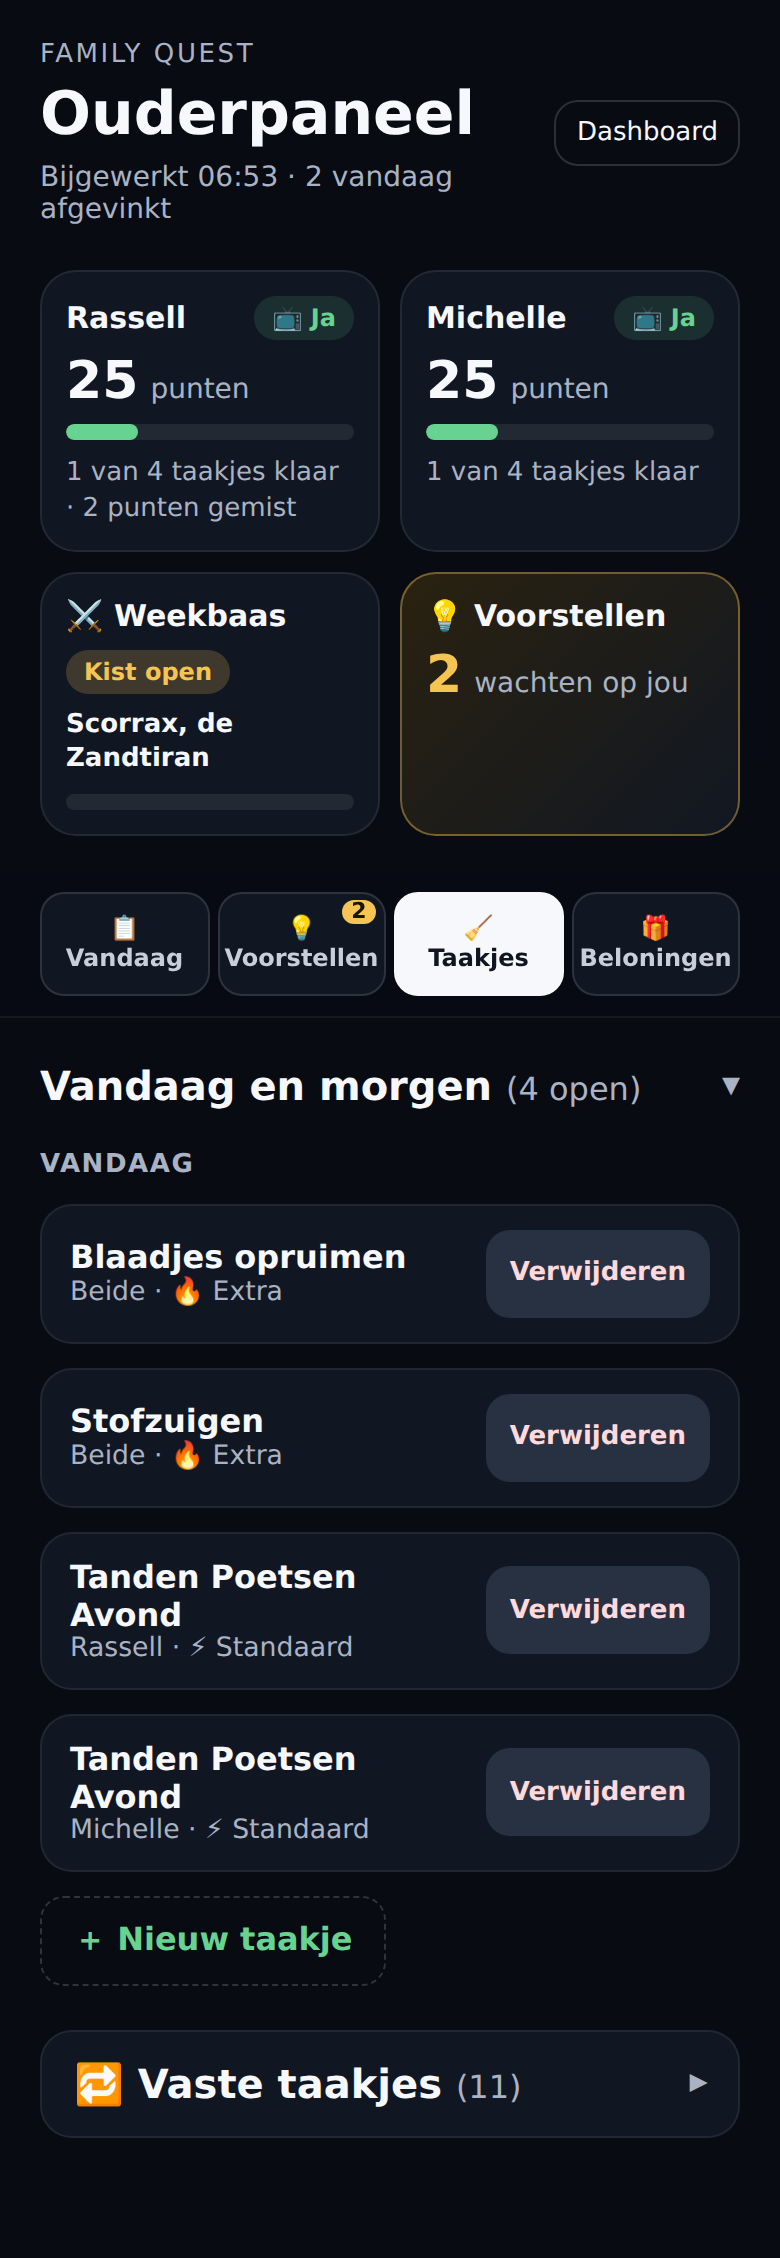
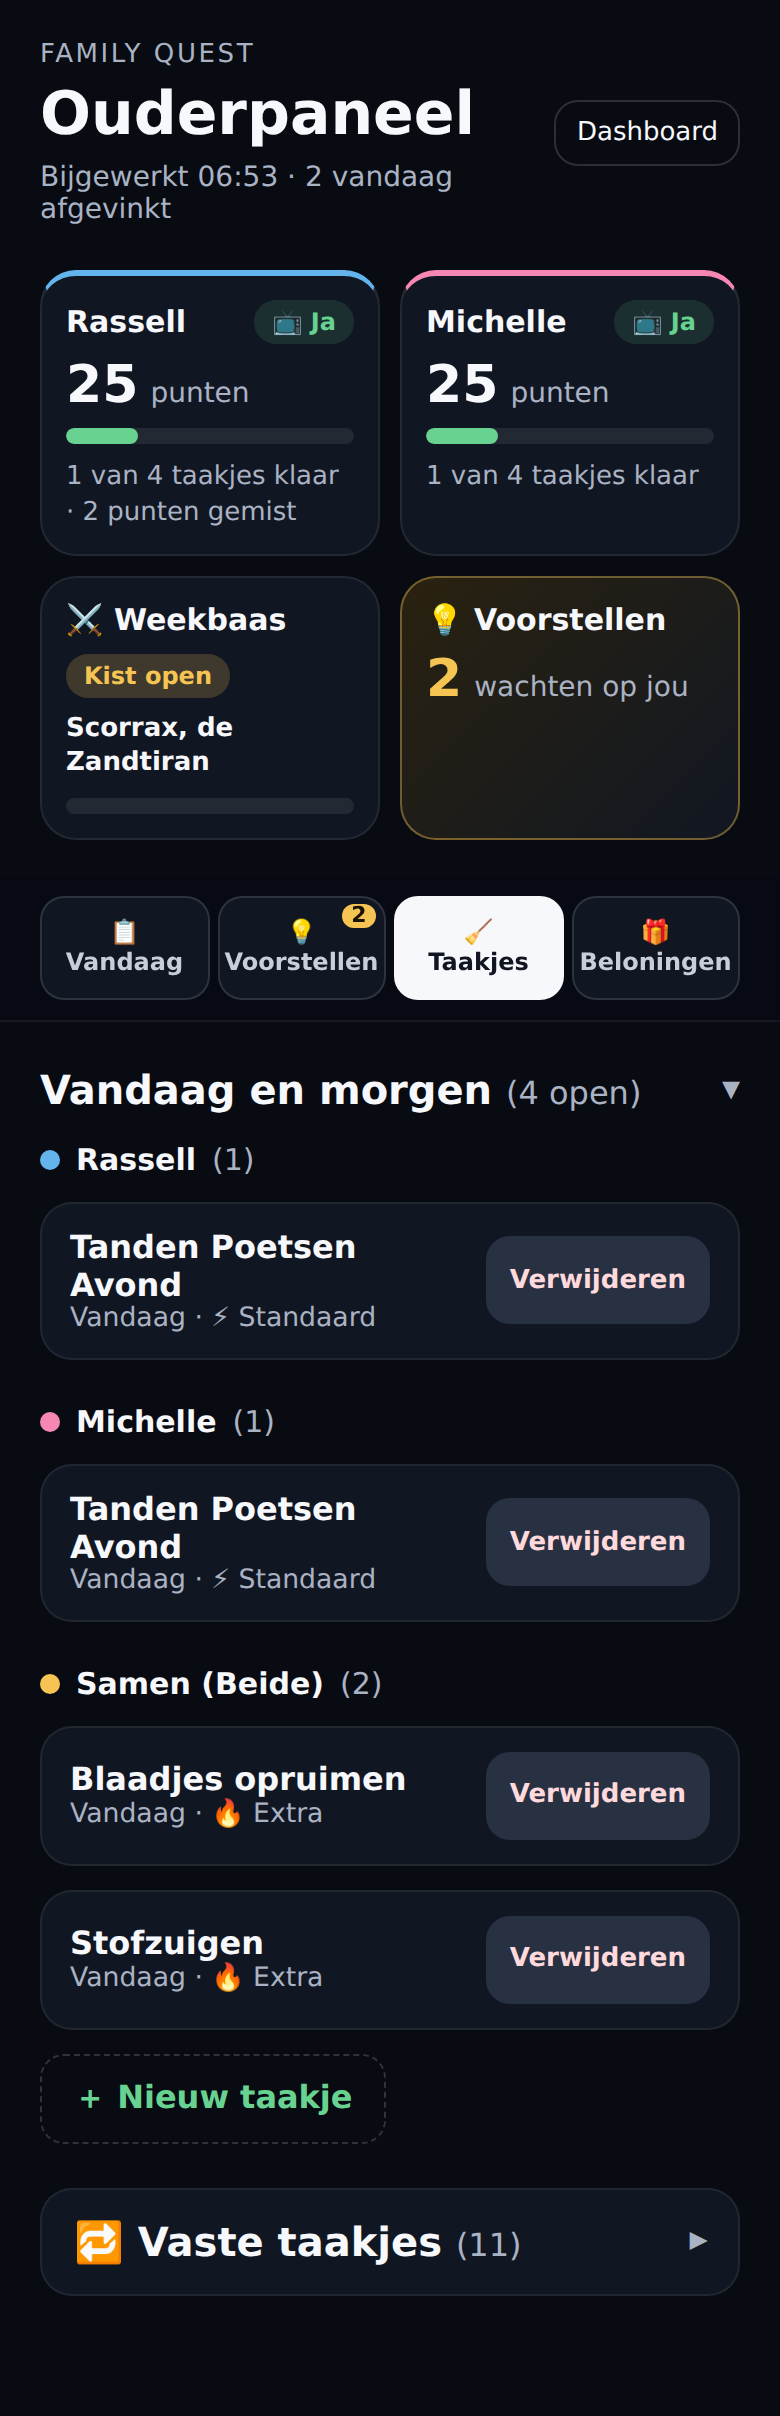
Ouderpaneel: group chores, recurring chores and proposals per child
Rassell, Michelle and Samen (Beide) each get their own group with a
colour dot; the kid cards and Vandaag panels carry the same colour.

Claude-Session: https://claude.ai/code/session_018uqXm4rzoaCGmt2KD5qHmJ

diff --git a/parent-manage.js b/parent-manage.js
@@ -16,6 +16,9 @@
   const dayBoxes=sel=>`<div class="day-picks">${DAYS.map(([v,l])=>`<label><input type="checkbox" name="days" value="${v}"${(sel||[]).includes(v)?' checked':''}>${l}</label>`).join('')}</div>`;
   const levelLabel=l=>String(l||'').includes('Extra')?'🔥 Extra':'⚡ Standaard';
   const dayLabel=d=>d===catalog?.today?'Vandaag':d===catalog?.tomorrow?'Morgen':d;
+  // Lists on the Ouderpaneel are grouped per child: Rassell, Michelle, then chores for both.
+  const PEOPLE=[['Rassell','Rassell'],['Michelle','Michelle'],['Beide','Samen (Beide)']];
+  const byPerson=(items,key,row)=>PEOPLE.map(([p,label])=>{const list=items.filter(x=>(x[key]||'Beide')===p||(p==='Beide'&&!['Rassell','Michelle'].includes(x[key])));return list.length?`<p class="person-label p-${p.toLowerCase()}">${esc(label)} <span>(${list.length})</span></p>`+list.map(row).join(''):'';}).join('');
   const daysLabel=ds=>ds.length===7?'Elke dag':ds.map(d=>DAYS.find(x=>x[0]===d)?.[1]||d).join(' · ');
 
   function render(c){
@@ -25,7 +28,7 @@
     const ov=$('ov-proposals');
     if(ov){ov.querySelector('.proposal-val').textContent=proposals.length;ov.querySelector('.proposal-label').textContent=proposals.length?'wachten op jou':'niets te beoordelen';ov.classList.toggle('waiting',proposals.length>0);}
     const badge=$('nav-proposals');if(badge){badge.textContent=proposals.length;badge.hidden=!proposals.length;}
-    $('proposal-list').innerHTML=proposals.length?proposals.map(p=>p.type==='reward'?`
+    $('proposal-list').innerHTML=proposals.length?byPerson(proposals,'child',p=>p.type==='reward'?`
       <form class="manage-card" data-id="${esc(p.id)}" data-kind="reward-proposal">
         <div class="card-head"><strong>🎁 ${esc(p.title)}</strong><small>Beloning · voorstel van ${esc(p.child)}</small></div>
         <div class="card-fields">
@@ -45,25 +48,24 @@
         </div>
         <div class="repeat" hidden>${dayBoxes([])}</div>
         <div class="card-actions"><button class="ok" data-act="approve-task">Goedkeuren</button><button class="no" data-act="reject">Afwijzen</button></div>
-      </form>`).join(''):'<div class="empty small">Geen voorstellen</div>';
+      </form>`):'<div class="empty small">Geen voorstellen</div>';
 
-    // Open chores grouped by day, so today's list is not mixed with tomorrow's.
-    const planned=(c.planned||[]).filter(t=>!t.completed);
+    // Open chores per child, today's first.
+    const planned=(c.planned||[]).filter(t=>!t.completed).sort((x,y)=>String(x.day).localeCompare(String(y.day)));
     $('planned-count').textContent=planned.length?`(${planned.length} open)`:'';
-    const days=[...new Set(planned.map(t=>t.day))].sort();
-    $('planned-list').innerHTML=planned.length?days.map(d=>`<p class="list-label">${esc(dayLabel(d))}</p>`+planned.filter(t=>t.day===d).map(t=>`
-      <div class="manage-row"><div><strong>${esc(t.title)}</strong><small>${esc(t.person)} · ${levelLabel(t.level)}</small></div>
-      <button class="no" data-act="remove-task" data-id="${esc(t.id)}" data-title="${esc(t.title)}">Verwijderen</button></div>`).join('')).join(''):'<div class="empty small">Geen open taakjes voor vandaag of morgen</div>';
+    $('planned-list').innerHTML=planned.length?byPerson(planned,'person',t=>`
+      <div class="manage-row"><div><strong>${esc(t.title)}</strong><small>${esc(dayLabel(t.day))} · ${levelLabel(t.level)}</small></div>
+      <button class="no" data-act="remove-task" data-id="${esc(t.id)}" data-title="${esc(t.title)}">Verwijderen</button></div>`):'<div class="empty small">Geen open taakjes voor vandaag of morgen</div>';
 
     const recurring=c.recurring||[];
     $('recurring-count').textContent=recurring.length?`(${recurring.length})`:'';
-    $('recurring-list').innerHTML=recurring.map(t=>`
-      <details class="manage-row-edit"><summary><div><strong>${esc(t.title)}</strong><small>${esc(t.person)} · ${levelLabel(t.level)} · ${esc(daysLabel(t.days))}</small></div><span class="edit-link">Aanpassen</span></summary>
+    $('recurring-list').innerHTML=byPerson(recurring,'person',t=>`
+      <details class="manage-row-edit"><summary><div><strong>${esc(t.title)}</strong><small>${levelLabel(t.level)} · ${esc(daysLabel(t.days))}</small></div><span class="edit-link">Aanpassen</span></summary>
         <form class="manage-card" data-id="${esc(t.id)}" data-kind="chore">
           <div class="card-fields"><label>Naam<input name="title" value="${esc(t.title)}" maxlength="60"></label><label>Voor${whoSelect(t.person)}</label><label>Soort${levelSelect(levelKey(t.level))}</label></div>
           ${dayBoxes(t.days)}
           <div class="card-actions"><button class="ok" data-act="chore-save">Opslaan</button><button class="no" data-act="chore-remove">Stoppen</button></div>
-        </form></details>`).join('')||'<div class="empty small">Nog geen vaste taakjes</div>';
+        </form></details>`)||'<div class="empty small">Nog geen vaste taakjes</div>';
 
     // Rewards and boss treasures show as one line each; tap to edit.
     const rewards=c.rewards||[];

diff --git a/parent.css b/parent.css
@@ -70,3 +70,7 @@ html{scroll-behavior:smooth;scroll-padding-top:72px}
 .tabs button .badge{position:absolute;top:3px;right:4px;min-width:17px;font-size:11px;padding:0 4px}
 }
 .ov-boss .ov-head{flex-wrap:wrap;justify-content:flex-start}.ov-boss .ov-head strong{flex:1 1 auto;white-space:nowrap}
+.person-label{display:flex;align-items:center;gap:8px;margin:10px 0 0;font-weight:800;font-size:15px;color:#f7f8fb}.person-label:first-child{margin-top:0}.person-label span{color:#aab3c4;font-weight:500}
+.person-label::before{content:'';width:10px;height:10px;border-radius:50%;background:#aab3c4}.person-label.p-rassell::before{background:#63b3ed}.person-label.p-michelle::before{background:#f687b3}.person-label.p-beide::before{background:#f6c453}
+.ov-kid[data-child=rassell]{border-top:3px solid #63b3ed}.ov-kid[data-child=michelle]{border-top:3px solid #f687b3}
+.kids .child-section:nth-child(1){border-top:3px solid #63b3ed}.kids .child-section:nth-child(2){border-top:3px solid #f687b3}

diff --git a/parent.html b/parent.html
@@ -5,7 +5,7 @@
 <meta name="viewport" content="width=device-width,initial-scale=1,viewport-fit=cover">
 <title>Ouderpaneel · Family Quest</title>
 <link rel="stylesheet" href="child-app.css?v=2">
-<link rel="stylesheet" href="parent.css?v=5">
+<link rel="stylesheet" href="parent.css?v=6">
 </head>
 <body>
 <main>
@@ -107,7 +107,7 @@
 </main>
 <script src="bridge-status.js"></script>
 <script src="parent.js?v=2"></script>
-<script src="parent-manage.js?v=3"></script>
+<script src="parent-manage.js?v=4"></script>
 <script src="parent-tabs.js?v=1"></script>
 </body>
 </html>
